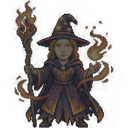
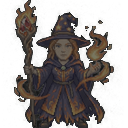
bigger Alice and new  image asset

diff --git a/src/config/settings.py b/src/config/settings.py
@@ -34,7 +34,7 @@ COLOR_WEAPON_BAR_FG = (200, 200, 200)
 
 # Player Settings
 PLAYER_SPEED = 5
-PLAYER_SIZE = 0.8
+PLAYER_SIZE = 1.3
 PLAYER_MAX_HEALTH = 10000
 PLAYER_INVULNERABILITY_DURATION = 1000
 
